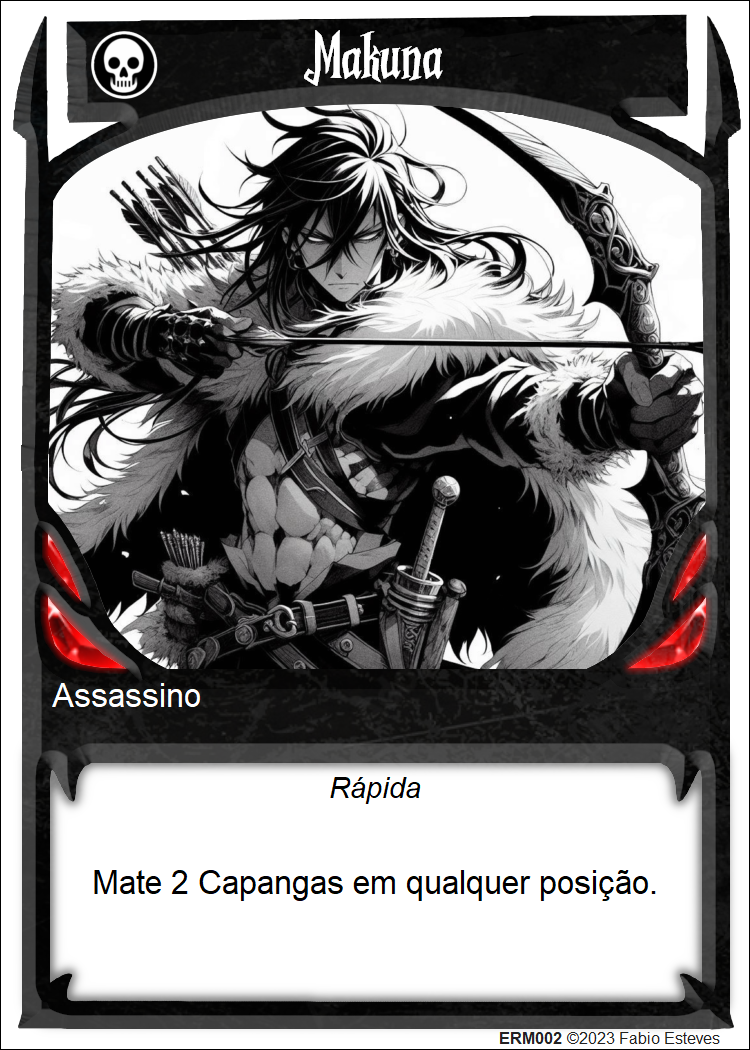
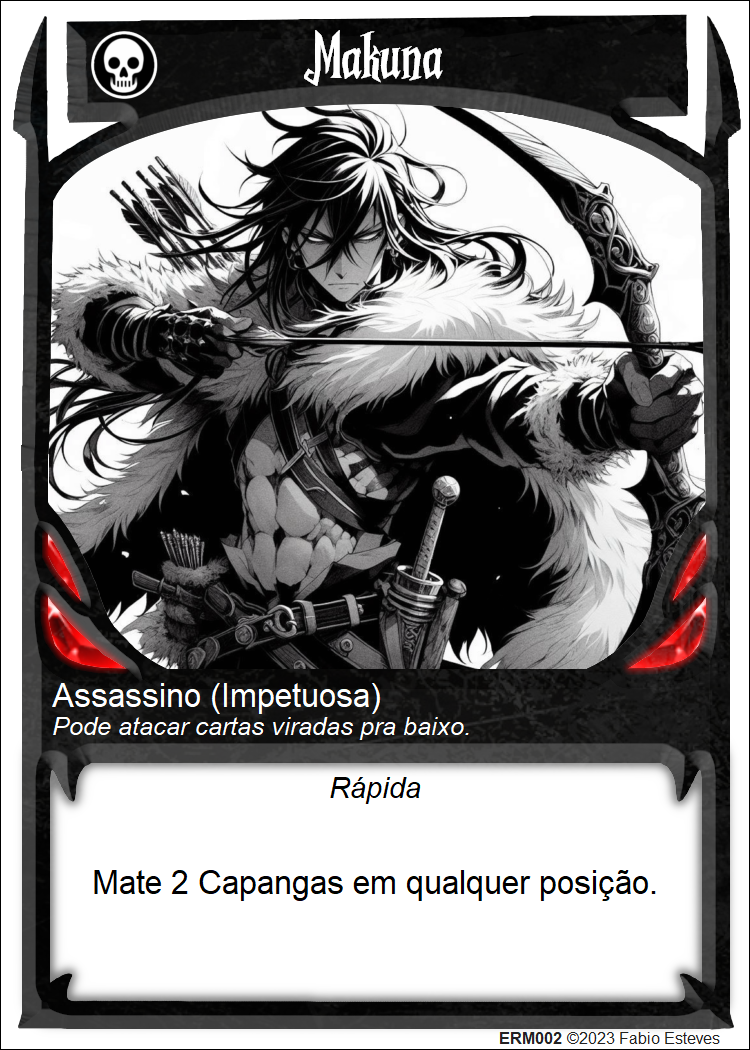
patch v17 impetuoso

Changed region(s): [[0.0613, 0.64, 0.6133, 0.701]]

diff --git a/cardspt/cardlistpt.html b/cardspt/cardlistpt.html
@@ -193,12 +193,12 @@
         // Função para carregar o arquivo de texto
         function loadTextFile() {
             const content = `Charlotte	|Assassino|	Mate 1 carta em qualquer posição.	| 	|deckbuildercards_001.png
-Makuna	|Assassino|	Mate 2 Capangas em qualquer posição.	| 	|deckbuildercards_002.png
+Makuna	|Assassino|	Mate 2 Capangas em qualquer posição.	| Impetuosa	|deckbuildercards_002.png
 Shimaru	|Assassino|	Mate todas as cartas inimigas que virarem pra cima neste turno.	| Evasiva	|deckbuildercards_003.png
 Picard e Boulle	|Assassino|	Mate 1 carta tipo "Invulnerável" em qualquer posição.	| Exterminador	|deckbuildercards_004.png
 Beetrice	|Assassino|	Mate todas as cartas inimigas que roubarem tesouros no turno do oponente.	| Voador	|deckbuildercards_005.png
 Toxique	|Assassino|	Mate todas as cartas inimigas que virarem pra cima no turno do oponente.	| 	|deckbuildercards_006.png
-Erzsebet	|Assassino|	Dê Habilidade de Assassino para uma de suas cartas até o fim deste turno.	| Invulnerável, Voador	|deckbuildercards_007.png
+Erzsebet	|Assassino|	Suas cartas podem atacar cartas viradas pra baixo.	| Invulnerável	|deckbuildercards_007.png
 Rhowl	|Assassino|	Vire todas as cartas inimigas pra baixo.	| Invulnerável	|deckbuildercards_008.png
 Tintin	|Assassino|	Escolha um Tipo para esta carta.	| 	|deckbuildercards_009.png
 Grimas	|Assassino|	Use um poder Rápido ou Lento de uma carta no Cemitério de qualquer jogador.	| 	|deckbuildercards_010.png
@@ -206,7 +206,7 @@ Wicker	|Assassino|	Mate todas as cartas inimigas que não se moverem até o fim 
 Machado	|Assassino|	Mate todas as cartas inimigas em posições adjacentes à esta carta.	| 	|deckbuildercards_012.png
 Muerte	|Assassino|	Compre até 3 cartas do seu Cemitério.	| 	|deckbuildercards_013.png
 Sandiego	|Assassino|	Ganhe 2 tesouros cada vez que esta carta matar outra carta neste turno.	| 	|deckbuildercards_014.png
-Kuroshi	|Assassino|	Ganhe 2 tesouros cada vez que seus Assassinos matarem cartas.	| Evasiva	|deckbuildercards_015.png
+Kuroshi	|Assassino|	Ganhe 2 tesouros cada vez que seus Assassinos matarem cartas.	| Impetuosa	|deckbuildercards_015.png
 Peekaboo	|Assassino|	Mova esta carta até 3 posições neste turno.	| 	|deckbuildercards_016.png
 Karl e Sylv	|Assassino|	Mate 1 carta em qualquer posição e mova esta carta para a posição da carta morta.	| Voador	|deckbuildercards_017.png
 Gallagher	|Assassino|	Mova esta carta 1 posição cada vez que o oponente gastar 1 ponto de ação, inclusive para as zonas dele.	| 	|deckbuildercards_018.png
@@ -240,7 +240,7 @@ Clementine	|Ladrão|	Ganhe 2 tesouros pra cada carta que o oponente tem a mais q
 Alitza	|Ladrão|	Mova esta carta 1 posição cada vez que você gastar 1 ponto de ação.	| 	|deckbuildercards_046.png
 Rei Branco	|Espião|	Cartas inimigas não podem se mover no turno do oponente.	| 	|deckbuildercards_047.png
 Naptali	|Espião|	Cartas inimigas não podem virar pra cima no turno do oponente.	| 	|deckbuildercards_048.png
-Bumi	|Espião|	Destrua a posição do tesouro abaixo desta carta (vire a carta de tesouro). Posições destruídas não podem ser usadas para roubar.	| Sorrateira	|deckbuildercards_049.png
+Bumi	|Espião|	Destrua todas as posições vazias da Zona do Tesouro (vire as cartas de tesouro). Posições destruídas não podem ser usadas para roubar.	| 	|deckbuildercards_049.png
 Dona Aranha	|Espião|	Cartas inimigas não podem retornar pra mão do oponente.	| 	|deckbuildercards_050.png
 Trevor	|Espião|	Vire pra baixo todas as cartas viradas pra cima e vire pra cima todas as cartas viradas pra baixo.	| 	|deckbuildercards_051.png
 Ventus	|Espião|	Mova todas as cartas inimigas 1 posição para trás se a posição estiver vazia.	| Voador	|deckbuildercards_052.png
@@ -258,10 +258,10 @@ Hodur	|Espião|	Mova 1 carta inimiga para qualquer posição vazia na sua Zona 1
 Ekate	|Espião|	O oponente não comprará carta na próxima Fase de Compra dele.	| 	|deckbuildercards_064.png
 Taika	|Espião|	Se você não puder comprar carta, você é o vencedor.	| Invulnerável	|deckbuildercards_065.png
 Wivern	|Espião|	Nenhuma carta pode se mover para posições adjacentes à esta carta no turno do oponente.	| 	|deckbuildercards_066.png
-Trogg	|Espião|	Mova 1 carta em uma posição adjacente ou diagonal à esta para outra posição adjacente ou diagonal, se estiver vazia.	| 	|deckbuildercards_067.png
+Trogg	|Espião|	Mova 1 carta em uma posição adjacente ou diagonal à esta para outra posição adjacente ou diagonal, se estiver vazia.	| Obstáculo	|deckbuildercards_067.png
 Malac	|Espião|	Ganhe 1 ponto de ação cada vez que uma carta sua for bloqueada.	| 	|deckbuildercards_068.png
 Gévaudan	|Espião|	Cartas inimigas não podem ser preparadas no turno do oponente.	| Sorrateira	|deckbuildercards_069.png
-Pazu	|Espião|	Esta carta e outra carta à sua escolha não podem ser viradas pra cima ou pra baixo neste turno.	| Voador	|deckbuildercards_070.png
+Sofia	|Espião|	Os Tipos de todas as cartas viradas pra cima não funcionam.	| 	|deckbuildercards_070.png
 Al Haddin	|Espião|	Olhe o seu Baralho e coloque 3 cartas no topo na ordem que desejar.	| 	|deckbuildercards_071.png
 Octavius	|Espião|	Exauste todas as cartas inimigas que virarem pra cima no turno do oponente.	| Invulnerável	|deckbuildercards_072.png
 Caelia	|Espião|	Troque de posição com outra carta sua e vire ambas pra baixo.	| Sorrateira	|deckbuildercards_073.png
@@ -276,7 +276,7 @@ Hadini	|Maníaco|	Crie 1 "Sapo".	| 	|deckbuildercards_081.png
 Grotheus	|Maníaco|	Crie 1 "Demônio".	| Invulnerável	|deckbuildercards_082.png
 Hameline	|Maníaco|	Crie 1 "Corvo" em cada posição vazia da Zona do Tesouro.	| 	|deckbuildercards_083.png
 Akhrunos	|Maníaco|	Crie 1 "Predadores".	| Invulnerável	|deckbuildercards_084.png
-Gretel	|Maníaco|	Crie 1 "Rato" ou 1 "Urso". Bana esta carta e coloque o Capanga na posição que ela ocupava.	| 	|deckbuildercards_085.png
+Gretel	|Maníaco|	Crie 1 "Rato" ou 1 "Urso" e vire esta carta pra baixo. Ela só pode virar pra cima depois que um "Rato" ou "Urso" for descartado.	| Impetuosa	|deckbuildercards_085.png
 Kthul'haazgar	|Maníaco|	Crie 1 "Loucura". Você só pode criar 1 "Loucura" por turno.	| Invulnerável	|deckbuildercards_086.png
 Pompeu	|Maníaco|	Crie 1 "Pedregulho".	| Fortão	|deckbuildercards_087.png
 Guilhotine	|Maníaco|	Crie 1 "Guarda-Sem-Cabeça".	| 	|deckbuildercards_088.png
@@ -285,7 +285,7 @@ Euryale	|Maníaco|	Crie 1 "Estátua" para cada carta inimiga que virar pra cima 
 Narlagoth	|Maníaco|	Crie 1 "Donzela" para cada carta na mão do oponente.	| 	|deckbuildercards_091.png
 Clyde	|Maníaco|	Crie 1 Capanga com nome de animal e jogue-o virado pra baixo. Ele perde o efeito, mas ganha Habilidade de Espião. Descarte-o após virá-lo.	| 	|deckbuildercards_092.png
 Lepre	|Maníaco|	Crie 1 "Praga".	| 	|deckbuildercards_093.png
-Mabel	|Maníaco|	Crie 2 "Ovelha".	| 	|deckbuildercards_094.png
+Mabel	|Maníaco|	Crie 1 "Ovelha" para cada posição vazia na Zona 1 do oponente.	| Evasiva	|deckbuildercards_094.png
 Endora	|Maníaco|	Crie 1 "Abóbora".	| 	|deckbuildercards_095.png
 César	|Maníaco|	Crie 3 "Partes do Mapa" e coloque-as no fundo do seu Baralho. Não pode haver mais de 3 "Partes do Mapa" em jogo.	| 	|deckbuildercards_096.png
 Pirata	|Capanga|	Esta carta tem a Habilidade do Ladrão.	| 	|deckbuildercards_097.png
@@ -300,8 +300,8 @@ Sapo	|Capanga|	Bana 1 carta inimiga em qualquer posição e jogue esta carta na 
 Pedregulho	|Capanga|	Esta carta é tipo "Obstáculo".	| Obstáculo	|deckbuildercards_106.png
 Estátua	|Capanga|	Bana 1 carta inimiga que virou pra cima e jogue esta carta na posição da carta banida.	| 	|deckbuildercards_107.png
 Canção Sinistra	|Capanga|	Coloque esta carta na mão do oponente. Ele perde 1 ponto de ação para cada par de "Canção Sinistra" na mão.	| Maldição	|deckbuildercards_108.png
-Rato	|Capanga|	O oponente perde 1 tesouro na Fase 2 dele se esta carta estiver na Zona do Tesouro.	| 	|deckbuildercards_109.png
-Urso	|Capanga|	Mate 1 carta inimiga em uma posição adjacente à esta carta durante a Fase 2 do oponente.	| 	|deckbuildercards_110.png
+Rato	|Capanga|	Coloque esta carta na mão do oponente. Ele perde 1 tesouro cada vez que uma carta retornar pra mão dele.	| Maldição	|deckbuildercards_109.png
+Urso	|Capanga|	Coloque esta carta na mão do oponente. Qualquer carta que retornar pra mão dele deve ser descartada.	| Maldição	|deckbuildercards_110.png
 Donzela	|Capanga|	O jogador que matar 7 "Donzela" é o vencedor.	| 	|deckbuildercards_111.png
 Praga	|Capanga|	Coloque esta carta na mão do oponente. Enquanto segurar esta carta, ele deve descartar 1 carta do topo do Baralho dele no fim do turno.	| Maldição	|deckbuildercards_112.png
 Ovelha	|Capanga|	Jogue esta carta em uma posição vazia da Zona 1 do oponente.	| 	|deckbuildercards_113.png
@@ -422,14 +422,14 @@ Predadores	|Capanga|	Coloque esta carta no topo do Baralho do oponente. Se tiver
     Pode atacar e matar um "Invulnerável".<br>
     <strong>Fortão</strong><br>
     Pode atacar e matar um "Obstáculo".<br>
+    <strong>Impetuosa</strong><br>
+    Pode atacar cartas viradas pra baixo.<br>
     <strong>Invulnerável</strong><br>
     Só pode ser atacada ou morta por um "Exterminador".<br>
     <strong>Maldição</strong><br>
     Só pode ser retirada da mão por descarte.<br>
     <strong>Obstáculo</strong><br>
     Só pode ser atacada ou morta por um "Fortão".<br>
-    <strong>Perseguidor</strong><br>
-    Pode se mover para as zonas do oponente.<br>
     <strong>Regenerativa</strong><br>
     Pode retornar pra sua mão quando morrer.<br>
     <strong>Sorrateira</strong><br>
